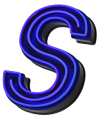
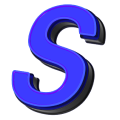
feat: new ups animation

diff --git a/src/components/pages/Game/Game.tsx b/src/components/pages/Game/Game.tsx
@@ -1,41 +1,68 @@
 import { useEffect, useState } from "react";
 import style from "./Game.module.css";
 import Letter from "../../cards/letters/whiteLetter/Letter";
-import { randomWhite } from "../../../features/randomWhite";
 import { v4 } from "uuid";
 import Timer from "../../helpers/Timer/Timer";
 import BlueLetter from "../../cards/letters/blueLetter/BlueLetter";
 import PointCounter from "../../helpers/PointCounter/PointCounter";
 import Bomb from "../../cards/bombs/Bomb";
 import Flask from "../../cards/flask/Flask";
+import imgOpenBox from "../../../assets/open-box.png";
+import { whiteLettArr } from "../../../variables/whiteLettArray";
+import { IWhiteLettArr } from "../../../types/types";
 
 export default function Game() {
   const [isVision, setIsVision] = useState(true);
-  const [timer, setTimer] = useState(30);
-  const [whiteLetter, setWhiteLetter] = useState<
-    { x: number; duration: number; id: string }[]
-  >([]);
+  const [timer, setTimer] = useState(15);
+  // const [whiteLetter, setWhiteLetter] = useState<IWhiteLettArr[]>([]);
 
   const [count, setCount] = useState<number>(0);
+
+  const [whiteLetter, setWhiteLetter] = useState<IWhiteLettArr[]>([]);
+
+  useEffect(() => {
+    const interval = setInterval(() => {
+      setWhiteLetter((prev) => {
+        // Создаем новый массив с элементами, добавляя их в конец
+        const newElements = whiteLettArr.map((item) => ({
+          ...item,
+          id: v4(),
+          duration: Math.random() + 3, // Обновляем продолжительность
+        }));
+        return [...prev, ...newElements];
+      });
+    }, 700); // Добавляем новые элементы каждые 2 секунды
+
+    return () => clearInterval(interval); // Очищаем интервал при размонтировании
+  }, []);
 
   const handleClick = (id: string) => {
     setWhiteLetter((prev) => prev.filter((letter) => letter.id !== id));
     setCount((prev) => prev + 1);
   };
 
-  useEffect(() => {
-    const generateLetter = () => {
-      const newLetter = {
-        x: randomWhite(),
-        duration: Math.random() * 3 + 2,
-        id: v4().toString(),
-      };
-      setWhiteLetter((prev) => [...prev, newLetter]);
-    };
+  // useEffect(() => {
+  //   const generateLetter = () => {
+  //     const newLetter = {
+  //       x: randomWhite(),
+  //       duration: Math.random() * 3 + 2,
+  //       id: v4().toString(),
+  //     };
+  //     setWhiteLetter((prev) => [...prev, newLetter]);
+  //   };
 
-    const interval = setInterval(generateLetter, 200);
-    return () => clearInterval(interval);
-  }, []);
+  //   const interval = setInterval(generateLetter, 200);
+  //   return () => clearInterval(interval);
+  // }, []);
+
+  // useEffect(() => {
+  //   const generateLetter = () => {
+  //     setWhiteLetter(whiteLettArr);
+  //   };
+
+  //   const interval = setTimeout(generateLetter, 100);
+  //   return () => clearTimeout(interval);
+  // }, []);
 
   return (
     <>
@@ -52,9 +79,10 @@ export default function Game() {
               duration={letter.duration}
             />
           ))}
-          <BlueLetter />
+          <BlueLetter setCount={setCount} />
           <Flask setCount={setTimer} />
           <Bomb setCount={setCount} />
+          <img src={imgOpenBox} className={style.img_open_box} />
         </div>
       ) : null}
     </>

diff --git a/src/components/cards/letters/blueLetter/BlueLetter.tsx b/src/components/cards/letters/blueLetter/BlueLetter.tsx
@@ -1,40 +1,64 @@
 import "./BlueLetter.css";
 import imgBlueLetter from "../../../../assets/S-blue.png";
 import { useEffect, useState } from "react";
-import { randomWhite } from "../../../../features/randomWhite";
 import { v4 } from "uuid";
+import { randomBlue } from "../../../../features/randomBlue";
 
-const BlueLetter: React.FC = () => {
-  const [blueLetter, setBlueLetter] = useState<
-    { x: number; duration: number; id: string }[]
-  >([]);
+interface BlueLetterProps {
+  setCount: React.Dispatch<React.SetStateAction<number>>;
+}
+
+const BlueLetter = ({ setCount }: BlueLetterProps) => {
+  const [blueLetter, setBlueLetter] = useState<{ x: number; id: string }[]>([]);
+
+  const handleClick = (id: string) => {
+    setBlueLetter((prev) => prev.filter((letter) => letter.id !== id));
+    setCount((prev) => prev - 3);
+  };
+
+  // const [isAtBottom, setIsAtBottom] = useState<boolean>(false);
+  // const elementRef = useRef<HTMLElement>(null);
+
+  // useEffect(() => {
+  //   if (elementRef.current) {
+  //     const rect = elementRef.current.getBoundingClientRect();
+  //     const isBottom = rect.bottom >= window.innerHeight;
+  //     setIsAtBottom(isBottom);
+  //   }
+  //   if (isAtBottom) {
+  //     setCount((prev) => prev + 3);
+  //   }
+  // }, [isAtBottom, blueLetter]);
 
   useEffect(() => {
     const generateLetter = () => {
       const newLetter = {
-        x: randomWhite(),
-        duration: Math.random() * 3 + 2,
+        x: randomBlue(),
         id: v4().toString(),
       };
       setBlueLetter((prev) => [...prev, newLetter]);
     };
 
-    const interval = setInterval(generateLetter, 1000);
+    const interval = setInterval(generateLetter, 1500);
     return () => clearInterval(interval);
   }, []);
 
   return (
     <>
       {blueLetter.map((letter) => (
-        <img
+        <button
+          className="btn_blue"
+          onTouchStart={() => handleClick(letter.id)}
+          key={letter.id}
           id={letter.id}
-          src={imgBlueLetter}
-          className="falling_letter"
+          // ref={elementRef}
           style={{
             left: `${letter.x}%`,
-            animationDuration: `${letter.duration}s`,
           }}
-        />
+        >
+          {" "}
+          <img className="falling_letter" src={imgBlueLetter} />
+        </button>
       ))}
     </>
   );

diff --git a/src/variables/whiteLettArray.ts b/src/variables/whiteLettArray.ts
@@ -1,0 +1,13 @@
+import { v4 } from "uuid";
+import { IWhiteLettArr } from "../types/types";
+
+export const whiteLettArr: IWhiteLettArr[] = [
+  { id: v4(), duration: Math.random() * 3 + 2, x: 10 },
+  //   { id: v4(), duration: Math.random() * 3 + 2, x: 20 },
+  { id: v4(), duration: Math.random() * 3 + 2, x: 30 },
+  //   { id: v4(), duration: Math.random() * 3 + 2, x: 40 },
+  { id: v4(), duration: Math.random() * 3 + 2, x: 50 },
+  //   { id: v4(), duration: Math.random() * 3 + 2, x: 60 },
+  { id: v4(), duration: Math.random() * 3 + 2, x: 70 },
+  { id: v4(), duration: Math.random() * 3 + 2, x: 85 },
+];

diff --git a/src/components/cards/letters/blueLetter/BlueLetter.css b/src/components/cards/letters/blueLetter/BlueLetter.css
@@ -1,10 +1,28 @@
-.falling_letter {
+.btn_blue {
   position: absolute;
   top: -50px;
   width: 33px;
   height: 40px;
+  border: none;
+  padding: 0;
   animation-name: fall;
   animation-timing-function: linear;
+  background: none;
+}
+
+.falling_letter {
+  position: absolute;
+  top: -50px;
+  width: 40px;
+  height: 40px;
+  animation-name: fall;
+  animation-timing-function: linear;
+  animation-duration: 3s;
+  -webkit-tap-highlight-color: transparent;
+  -webkit-user-select: none;
+  -moz-user-select: none;
+  -ms-user-select: none;
+  user-select: none;
 }
 
 @keyframes fall {

diff --git a/src/components/pages/Game/Game.module.css b/src/components/pages/Game/Game.module.css
@@ -1,8 +1,18 @@
 .falling_letters_container {
   position: relative;
-  width: 375px;
-  height: 650px;
-
+  min-width: 375px;
+  height: 100vh;
+  margin: 0 auto;
   background-color: #000000; /* Dark background */
   overflow: hidden;
+  background-image: url("../../../assets/background-game.png");
+  background-position: center;
+  background-size: cover;
+}
+
+.img_open_box {
+  position: absolute;
+  bottom: 0;
+  left: 50%;
+  transform: translate(-50%, -10%);
 }

diff --git a/src/index.css b/src/index.css
@@ -5,7 +5,6 @@
 
   color-scheme: light dark;
   color: rgba(255, 255, 255, 0.87);
-  background-color: #242424;
 
   font-synthesis: none;
   text-rendering: optimizeLegibility;
@@ -14,7 +13,7 @@
 }
 
 body {
-  margin: 0;
+  width: 100vw;
   display: flex;
   place-items: center;
   min-width: 320px;

diff --git a/src/components/cards/flask/Flask.tsx b/src/components/cards/flask/Flask.tsx
@@ -28,7 +28,7 @@ export default function Flask({ setCount }: FlaskProps) {
       setFlask((prev) => [...prev, newBomb]);
     };
 
-    const interval = setInterval(generateBomb, 6000);
+    const interval = setInterval(generateBomb, 4200);
     return () => clearInterval(interval);
   }, []);
 

diff --git a/src/features/randomBlue.ts b/src/features/randomBlue.ts
@@ -1,0 +1,5 @@
+export function randomBlue(): number {
+  const result = Math.floor(Math.random() * (75 - 25 + 1)) + 15;
+
+  return result;
+}

diff --git a/src/App.css b/src/App.css
@@ -1,6 +1,6 @@
 #root {
-  max-width: 1280px;
+  width: 100vw;
   margin: 0 auto;
-  padding: 2rem;
+
   text-align: center;
 }

diff --git a/src/types/types.ts b/src/types/types.ts
@@ -1,0 +1,5 @@
+export interface IWhiteLettArr {
+  id: string;
+  x: number;
+  duration: number;
+}
